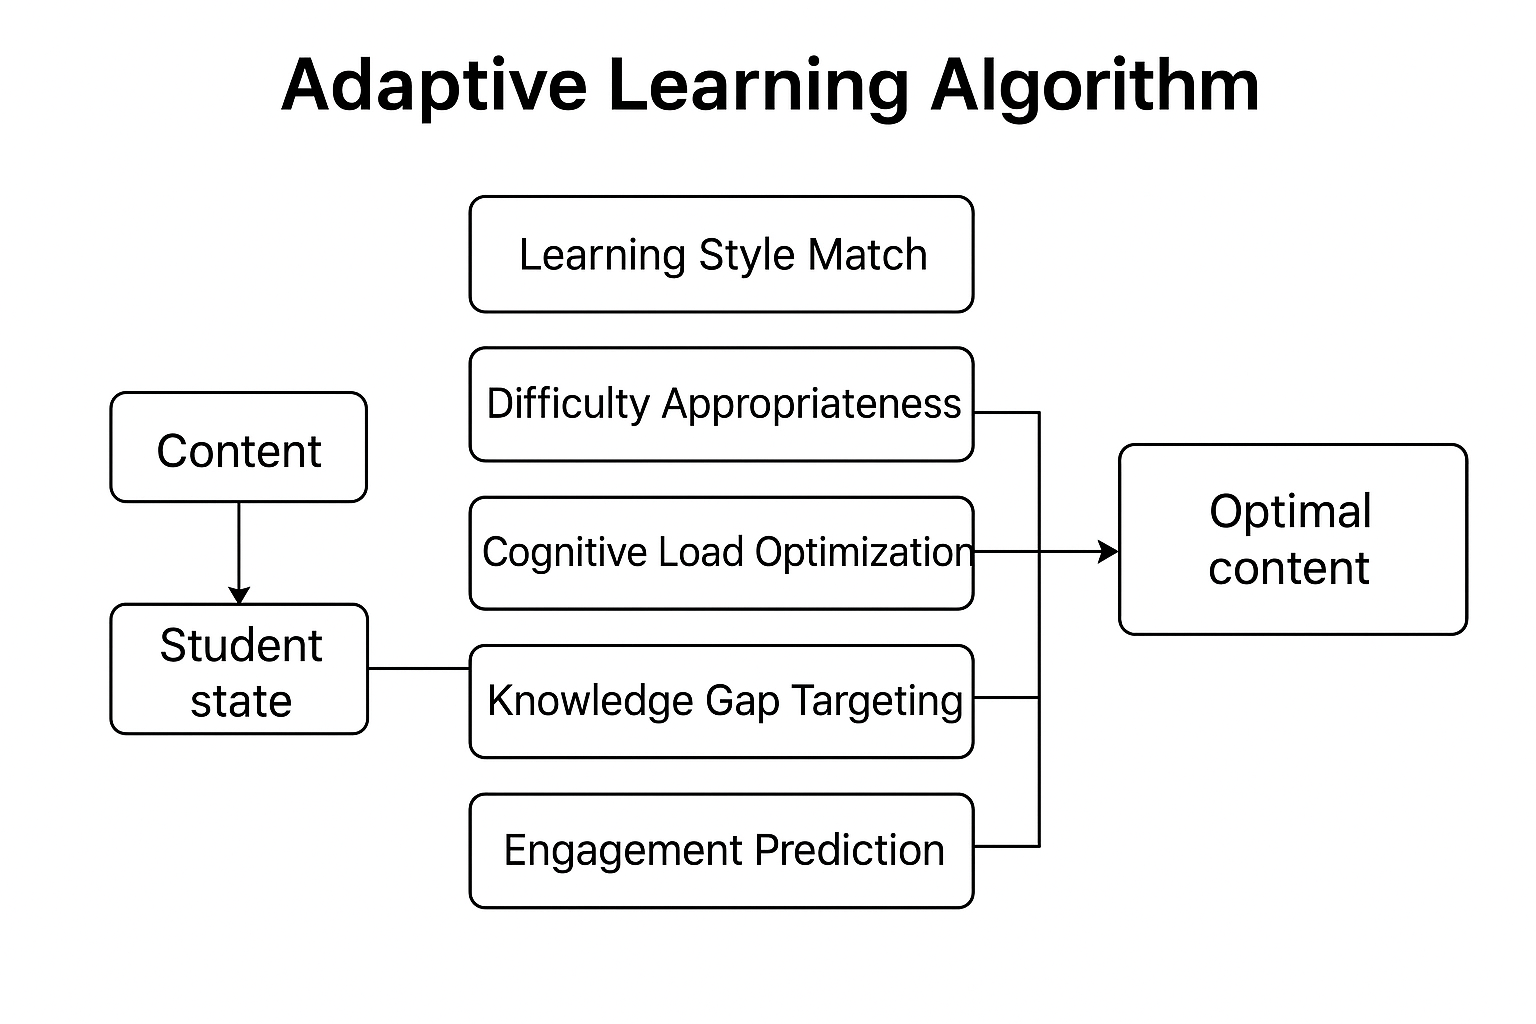
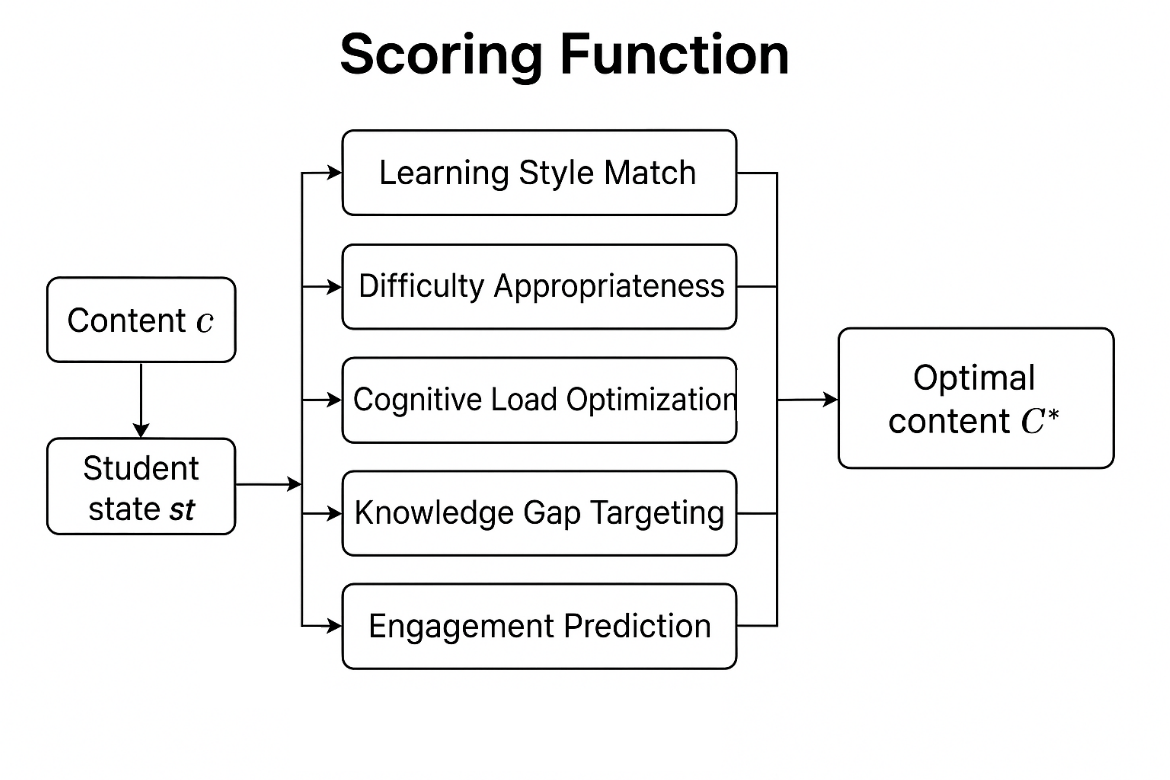
algorithm numbering

Changed region(s): [[0.0308, 0.1538, 0.9538, 0.8923], [0.1846, 0.0308, 0.8308, 0.1231]]

diff --git a/adaptive_algorithm/core/algorithm.py b/adaptive_algorithm/core/algorithm.py
@@ -14,7 +14,7 @@ class AdaptiveLearningAlgorithm:
     """  
     Multi-Objective Adaptive Learning Algorithm.
       
-    Implements equation (18) from the paper:  
+    Implements equation (20) from the paper:  
     C* = argmax[wls·LS + wd·D + wcl·CL + wkg·KG + we·Eng + β·√(ln(N)/Nc)]
       
     Subject to pedagogical constraints.  
@@ -129,7 +129,7 @@ class AdaptiveLearningAlgorithm:
         knowledge_level: float  
     ) -> Tuple[float, Dict[str, float]]:  
         """  
-        Calculate total score for content (Equation 17).
+        Calculate total score for content.
           
         S(c,st,t) = Σ wi·fi(c,st,t) + E(c,st,t)  
         """  

diff --git a/README.md b/README.md
@@ -1,30 +1,38 @@
-# Multi-Objective Adaptive Learning Algorithm: A Personalized Approach to Education
-At the core of the adaptive algorithm is a scoring function that evaluates potential learning content against the current state of the student. This function integrates multiple dimensions of the learning process:
+<h1 align="center"><br><sub><sup>A Multi-Objective Adaptive Learning Algorithm: A Synthesis of Pedagogical Models</sup></sub></h1>
 
-1. Learning Style Match (LS): Ensures content is presented in formats that align with the learner’s preferred modalities (e.g., visual, auditory, or kinesthetic). This enhances accessibility and comprehension.
+<div align="center" style="line-height: 1;">
+    <a href='https://'><img src='https://img.shields.io/badge/Technical Report-PDF-red'></a>
+</div>
 
-1. Difficulty Appropriateness (D): Controls the balance between challenge and mastery. By applying principles such as Bayesian Knowledge Tracing (BKT), the system estimates the learner’s knowledge state and selects tasks slightly above their comfort zone to promote growth without overwhelming them.
-
-1. Cognitive Load Optimization (CL): Prevents cognitive overload by sequencing and structuring tasks in a way that maintains mental efficiency, fostering deeper understanding rather than superficial memorization.
-
-1. Knowledge Gap Targeting (KG): Identifies unmastered areas and prioritizes content that addresses these gaps. By minimizing redundancy and maximizing relevance, the system ensures efficient progression toward mastery.
-
-1. Engagement Prediction (E): Considers motivational and affective factors to maintain learner attention and persistence. Engagement signals—such as interaction frequency or response time—inform the algorithm’s adjustments.
-
-The combined scoring system produces a ranked set of candidate learning activities. The algorithm then selects the optimal content, balancing pedagogical principles with real-time learner data. Importantly, the process is iterative: as new student responses and behaviors are recorded, the student model updates, refining subsequent content recommendations. This approach aligns with constructivist learning theory, where knowledge is actively built through personalized experiences. It also reflects optimization principles, as the algorithm continuously seeks to maximize learning gains while minimizing cognitive strain and disengagement.
-
+# Adaptive Learning Optimization Framework
+This repository contains the novel adaptive algorithm that formulates personalization as a Multi-Objective Optimization (MOO) problem, instead of optimizing for a single metric (like test score), it seeks to balance multiple, often conflicting, objectives to achieve a holistic and effective learning experience. The model explicitly integrates (i) knowledge gap targeting, (ii) cognitive load optimization, (iii) learning style alignment, (iv) engagement prediction, and (v) exploration bonuses, while imposing pedagogical constraints to maintain educational integrity.
 ![image](adaptive%20algorithm.png)
 
-the main scoring function defined as:
-$$S(c, st, t) = w_{ls} \cdot LS(c, st) 
-            + w_{d} \cdot D(c, st) 
-            + w_{cl} \cdot CL(c, st) 
-            + w_{kg} \cdot KG(c, st) 
-            + w_{e} \cdot Eng(c, st) 
-            + \beta \cdot \sqrt{\frac{\ln(N_t)}{N_c}}
+Adaptive Learning to select the optimal content $C^*$ is defined as:
 $$
-Here, $D(c,st)$ and KG(c,st) both depend on the learner's knowledge state $K(st)$
+C^* = \arg\max_{c \in C} \Bigg[
+    w_{ls} \cdot LS(c,st) \;+\;
+    w_{d} \cdot D(c,st) \;+\;
+    w_{cl} \cdot CL(c,st) \;+\;
+    w_{kg} \cdot KG(c,st) \;+\; \\
+     w_{e} \cdot Eng(c, st)  \;+\;
+    \beta \cdot \sqrt{\frac{\ln(N)}{N_c}}
+$$
 
+
+The system dynamically selects optimal educational content by solving a real-time optimization problem, maximizing a weighted scoring function that synthesizes five key components:
+
+- Bayesian Knowledge Tracing (BKT): For probabilistic knowledge estimation.
+
+- Zone of Proximal Development (ZPD): For difficulty targeting.
+
+- Cognitive Load Theory (CLT): For state-aware instructional design.
+
+- Learning Style Matching: For personalized content modality.
+
+- Upper Confidence Bound (UCB) Exploration: For handling the explore-exploit trade-off.
+
+Key Features: Highly personalized content delivery, real-time student state modeling (knowledge, style, load), and dynamic policy adjustment.
 
 # Reference
 
